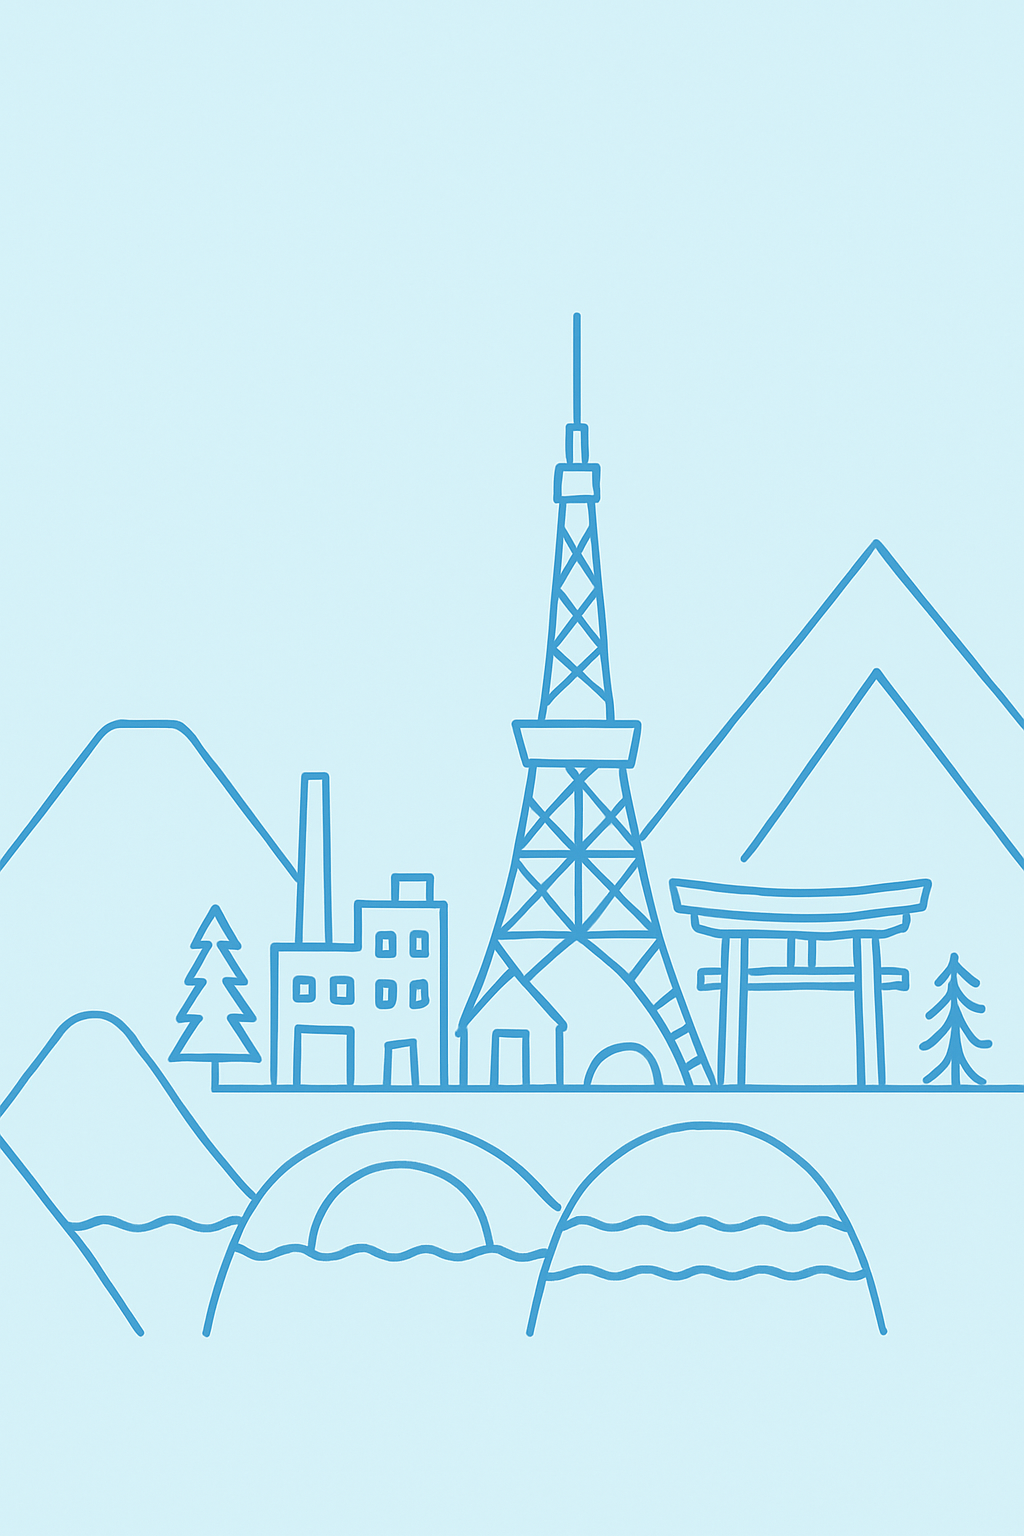
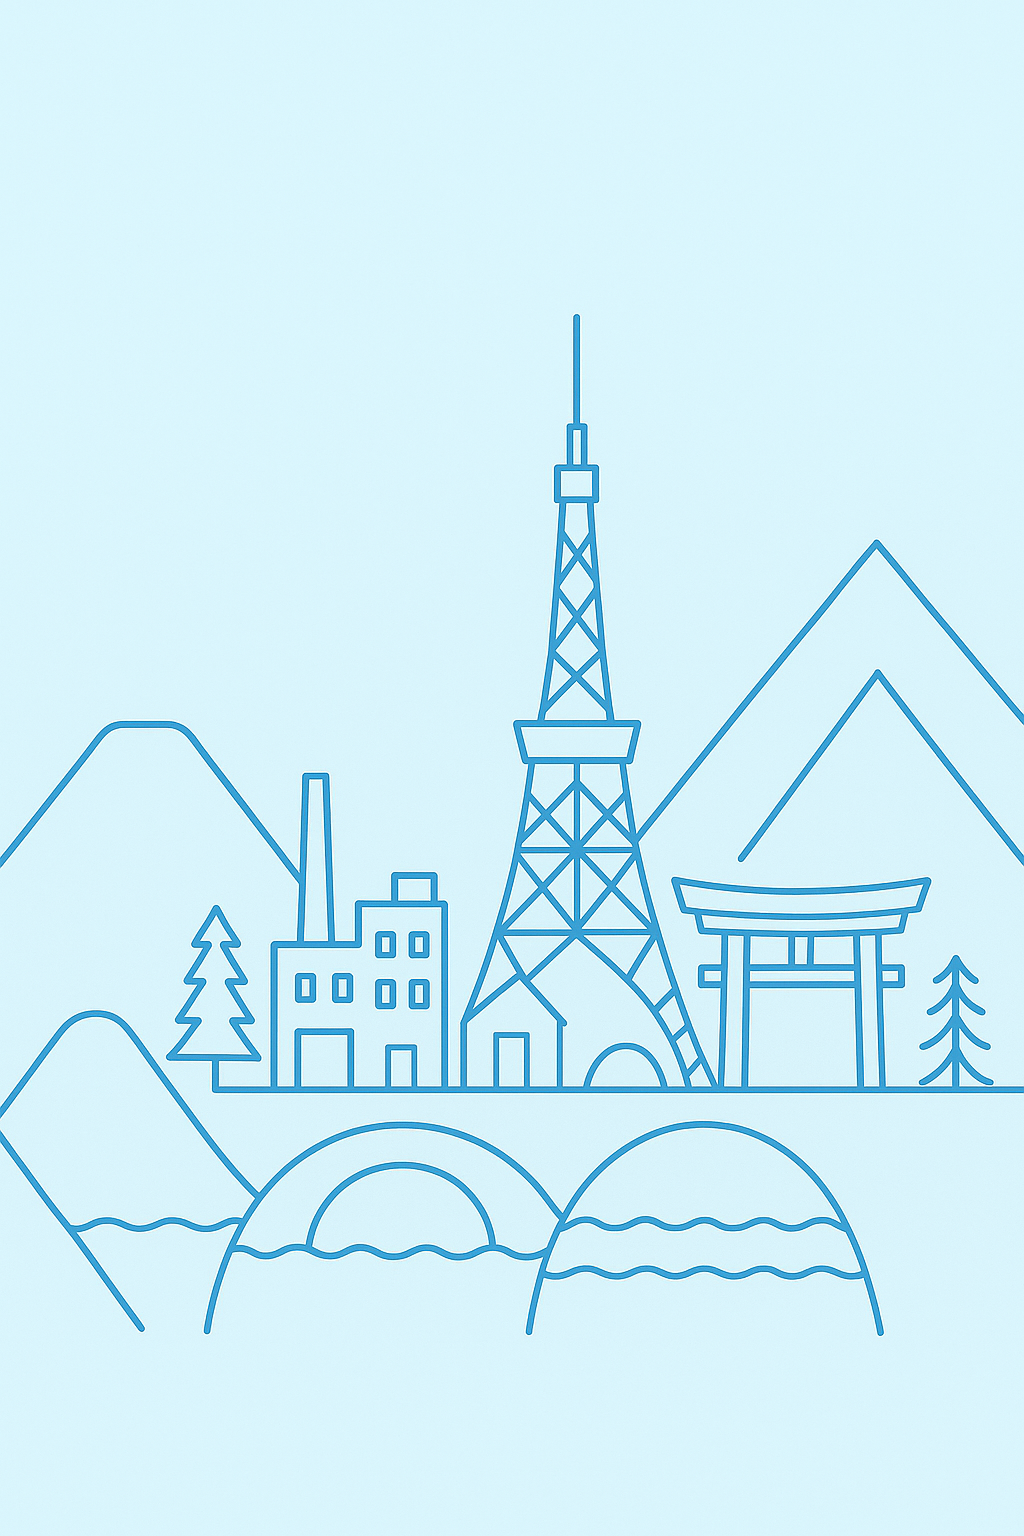
デザイン変更

diff --git a/app/pages/post.py b/app/pages/post.py
@@ -37,7 +37,7 @@ def main():
     
     # 背景設定
     base_dir = os.path.dirname(os.path.dirname(__file__))
-    bg_path = os.path.join(base_dir, "frontend", "public", "SnowVillageGo.png")
+    bg_path = os.path.join(base_dir, "frontend", "public", "SnowVillageGO-white.png")
     bg_base64 = get_base64_img(bg_path)
     
     bg_style = "background: linear-gradient(135deg, #1a237e, #283593, #3949ab, #42a5f5);"
@@ -235,8 +235,44 @@ def main():
     # 投稿フォーム表示
     display_post_form(user)
     
+    # 成功ダイアログの表示
+    if st.session_state.get('show_success_dialog', False):
+        show_success_dialog()
+    
     # 下部ナビゲーションバー
     display_bottom_navigation()
+
+
+@st.dialog("✅ 送信完了！")
+def show_success_dialog():
+    """送信成功ダイアログ"""
+    st.markdown("""
+    <div style="text-align: center; padding: 2rem;">
+        <div style="font-size: 4rem; margin-bottom: 1.5rem;">
+            💬
+        </div>
+        <h2 style="color: #10b981; font-weight: 700; margin-bottom: 1rem;">
+            質問を送信しました！
+        </h2>
+        <p style="font-size: 1.2rem; line-height: 1.6; color: #10b981; font-weight: 600; margin-bottom: 1.5rem;">
+            質問の回答が来ているか<br>
+            SnowVillageのモヤモヤチャンネルを見に行こう！
+        </p>
+        <div style="background: #f0f9ff; border: 1px solid #0ea5e9; border-radius: 10px; padding: 1rem; margin: 1rem 0;">
+            <p style="color: #0369a1; font-weight: 600; margin: 0;">
+                💡 回答は匿名で投稿されるため、質問者の特定はできません
+            </p>
+        </div>
+    </div>
+    """, unsafe_allow_html=True)
+    
+    # ダイアログを閉じるボタン
+    col1, col2, col3 = st.columns([1, 2, 1])
+    with col2:
+        if st.button("確認しました", use_container_width=True, type="primary"):
+            st.session_state.show_success_dialog = False
+            st.balloons()  # 成功時のバルーン効果
+            st.rerun()
 
 
 def display_bottom_navigation():
@@ -367,22 +403,9 @@ def handle_form_submission(message: str, slack_client, user):
     
     # 結果表示
     if success:
-        # 成功ポップアップ
-        st.markdown("""
-        <div class="success-box">
-            <strong><span class="material-icons" style="vertical-align: middle; margin-right: 0.25rem;">check_circle</span>送信完了！</strong><br>
-            メッセージが正常に送信されました。<br>
-            Slackチャンネルをご確認ください。
-        </div>
-        """, unsafe_allow_html=True)
-        
-        # 成功時のバルーン効果
-        st.balloons()
-        
-        # セッション状態をクリア（フォームリセット用）
-        if 'form_submitted' not in st.session_state:
-            st.session_state.form_submitted = True
-            st.rerun()
+        # ダイアログ表示フラグを設定
+        st.session_state.show_success_dialog = True
+        st.rerun()
             
     else:
         # エラー表示

diff --git a/app/pages/ranking.py b/app/pages/ranking.py
@@ -35,7 +35,7 @@ def main():
     
     # 背景設定
     base_dir = os.path.dirname(os.path.dirname(__file__))
-    bg_path = os.path.join(base_dir, "frontend", "public", "SnowVillageGo.png")
+    bg_path = os.path.join(base_dir, "frontend", "public", "SnowVillageGO-white.png")
     bg_base64 = get_base64_img(bg_path)
     
     bg_style = "background: linear-gradient(135deg, #1a237e, #283593, #3949ab, #42a5f5);"
@@ -261,7 +261,7 @@ def display_ranking():
         タスク完了数ランキング（上位10位）
     </h3>
     ''', unsafe_allow_html=True)
-    st.caption("同じタスク数の場合は、最後のタスク完了が早かったユーザーが上位になります")
+    st.markdown('<p style="color: #1a237e; font-size: 0.8rem; margin-bottom: 1rem;">同じタスク数の場合は、最後のタスク完了が早かったユーザーが上位になります</p>', unsafe_allow_html=True)
     
     for i, rank_data in enumerate(ranking_data, 1):
         username = rank_data['username']
